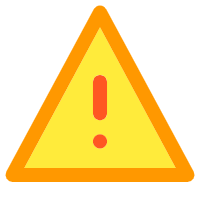
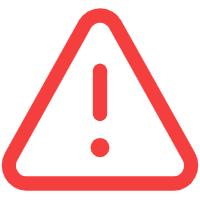
feat: add payee warning completed

diff --git a/src/views/banking-services/components/pay/components/to/components/add-payee/components/confirm-add/components/info.vue b/src/views/banking-services/components/pay/components/to/components/add-payee/components/confirm-add/components/info.vue
@@ -1,12 +1,147 @@
 <template>
-  <div class="confirm-add-container">test</div>
+  <div class="confirm-add-container">
+    <div class="warning-sign-container">
+      <img
+        style="width: 80px; height: 80px"
+        src="@/assets/images/warning-sign.png"
+        alt="Warning Sign"
+      />
+    </div>
+    <a-typography-title
+      :heading="5"
+      style="margin-top: 0px; margin-bottom: 32px; text-align: center"
+    >
+      Details Don't Match Account
+    </a-typography-title>
+    <a-descriptions size="large" :column="1">
+      <a-descriptions-item label="Name">
+        {{ addPayeeFormData.name.toUpperCase() }}
+        <icon-close
+          v-if="addPayeeDrawerVisibleContent.includes('name')"
+          style="color: #f53f3f"
+        />
+        <icon-check v-else style="color: #00b42a" />
+      </a-descriptions-item>
+      <a-descriptions-item label="Account Type">
+        {{ addPayeeFormData.type }}
+        <icon-close
+          v-if="addPayeeDrawerVisibleContent.includes('type')"
+          style="color: #f53f3f"
+        />
+        <icon-check v-else style="color: #00b42a" />
+      </a-descriptions-item>
+      <a-descriptions-item label="Sort Code">
+        {{ addPayeeFormData.sortCode }} <icon-check style="color: #00b42a" />
+      </a-descriptions-item>
+      <a-descriptions-item label="Account No.">
+        {{ addPayeeFormData.accountNumber }}
+        <icon-check style="color: #00b42a" />
+      </a-descriptions-item>
+    </a-descriptions>
+    <a-typography-paragraph style="margin: 16px 0px">
+      The details you entered don't match the account you're sending money to.
+      Please double-check who you're sending money to and cancel this payment if
+      you think someone might be trying to scam you.
+    </a-typography-paragraph>
+    <a-button
+      type="primary"
+      shape="round"
+      size="large"
+      long
+      style="margin-bottom: 16px"
+      @click="backToDetails()"
+    >
+      Back to Details
+    </a-button>
+    <a-button
+      type="secondary"
+      shape="round"
+      size="large"
+      long
+      @click="confirmAddPayee()"
+    >
+      Continue Anyway
+    </a-button>
+  </div>
 </template>
 
-<script lang="ts" setup></script>
+<script lang="ts" setup>
+  import { inject } from 'vue';
+  import { Message } from '@arco-design/web-vue';
+  import { addPayee } from '@/api/banking-services';
+  import getARandomBankName from '@/utils/random-bank-name';
+
+  const bankAccounts: any = inject('bankAccounts');
+  const paymentForm: any = inject('paymentForm');
+  const payDrawerVisibleFlag: any = inject('payDrawerVisibleFlag');
+  const payDrawerContent: any = inject('payDrawerContent');
+  const addPayeeFormData: any = inject('addPayeeFormData');
+  const addPayeeDrawerVisibleFlag: any = inject('addPayeeDrawerVisibleFlag');
+  const addPayeeDrawerVisibleContent: any = inject(
+    'addPayeeDrawerVisibleContent'
+  );
+  const payToDrawerVisibleFlag: any = inject('payToDrawerVisibleFlag');
+  const continueBtnLoading: any = inject('continueBtnLoading');
+  const backToDetails = () => {
+    addPayeeDrawerVisibleFlag.value = false;
+    addPayeeDrawerVisibleContent.value = '';
+  };
+  const confirmAddPayee = async () => {
+    continueBtnLoading.value = true;
+    try {
+      const reqData = addPayeeFormData.value;
+      const resData = await addPayee(reqData);
+      if (resData.data.status === 200) {
+        // Add payee to the mock data
+        const newPayee = {
+          name: reqData.name,
+          type: reqData.type,
+          sortCode: reqData.sortCode,
+          accountNumber: reqData.accountNumber,
+          bankName: getARandomBankName(),
+          reference: reqData.reference,
+          lastPaidDate: '',
+          lastPaidAmount: 0,
+        };
+        bankAccounts.value[Number(reqData.accountId)].payees.push(newPayee);
+        paymentForm.value.to = (
+          bankAccounts.value[Number(reqData.accountId)].payees.length - 1
+        ).toString();
+        paymentForm.value.reference = reqData.reference;
+        // Close the 'Confirm Add' drawer
+        addPayeeDrawerVisibleFlag.value = false;
+        addPayeeDrawerVisibleContent.value = '';
+        // Close the 'Add New Payee' drawer
+        payToDrawerVisibleFlag.value = false;
+        addPayeeFormData.value.name = '';
+        addPayeeFormData.value.type = '';
+        addPayeeFormData.value.sortCode = '';
+        addPayeeFormData.value.accountNumber = '';
+        addPayeeFormData.value.reference = '';
+        // Close the 'Pay To' drawer
+        payDrawerVisibleFlag.value = false;
+        payDrawerContent.value = '';
+      } else {
+        Message.error('Sorry, this payee cannot be added at this time');
+      }
+    } catch (err) {
+      Message.error((err as Error).message);
+    } finally {
+      continueBtnLoading.value = false;
+    }
+  };
+</script>
 
 <style lang="less" scoped>
   .confirm-add-container {
     height: 100%;
     padding: 12px;
+  }
+
+  .warning-sign-container {
+    margin-bottom: 32px;
+    display: flex;
+    justify-content: center;
+    align-items: center;
   }
 </style>

diff --git a/src/views/banking-services/components/pay/components/to/components/add-payee/components/confirm-add/components/navbar.vue b/src/views/banking-services/components/pay/components/to/components/add-payee/components/confirm-add/components/navbar.vue
@@ -19,9 +19,7 @@
       </li>
     </ul>
     <div class="center-side">
-      <a-typography-text style="line-height: 52px; font-size: 16px">
-        Confirm Add
-      </a-typography-text>
+      <!-- RESERVED -->
     </div>
     <ul class="right-side">
       <!-- RESERVED -->

diff --git a/src/views/banking-services/components/pay/components/to/components/add-payee/components/confirm-add/index.vue b/src/views/banking-services/components/pay/components/to/components/add-payee/components/confirm-add/index.vue
@@ -34,7 +34,7 @@
     justify-content: center;
     background-color: white;
     height: 80px;
-    border-bottom: 1px solid var(--color-neutral-3);
+    border-bottom: 1px solid white;
   }
 
   .add-payee-warning-layout > .arco-layout > .arco-layout-content {
